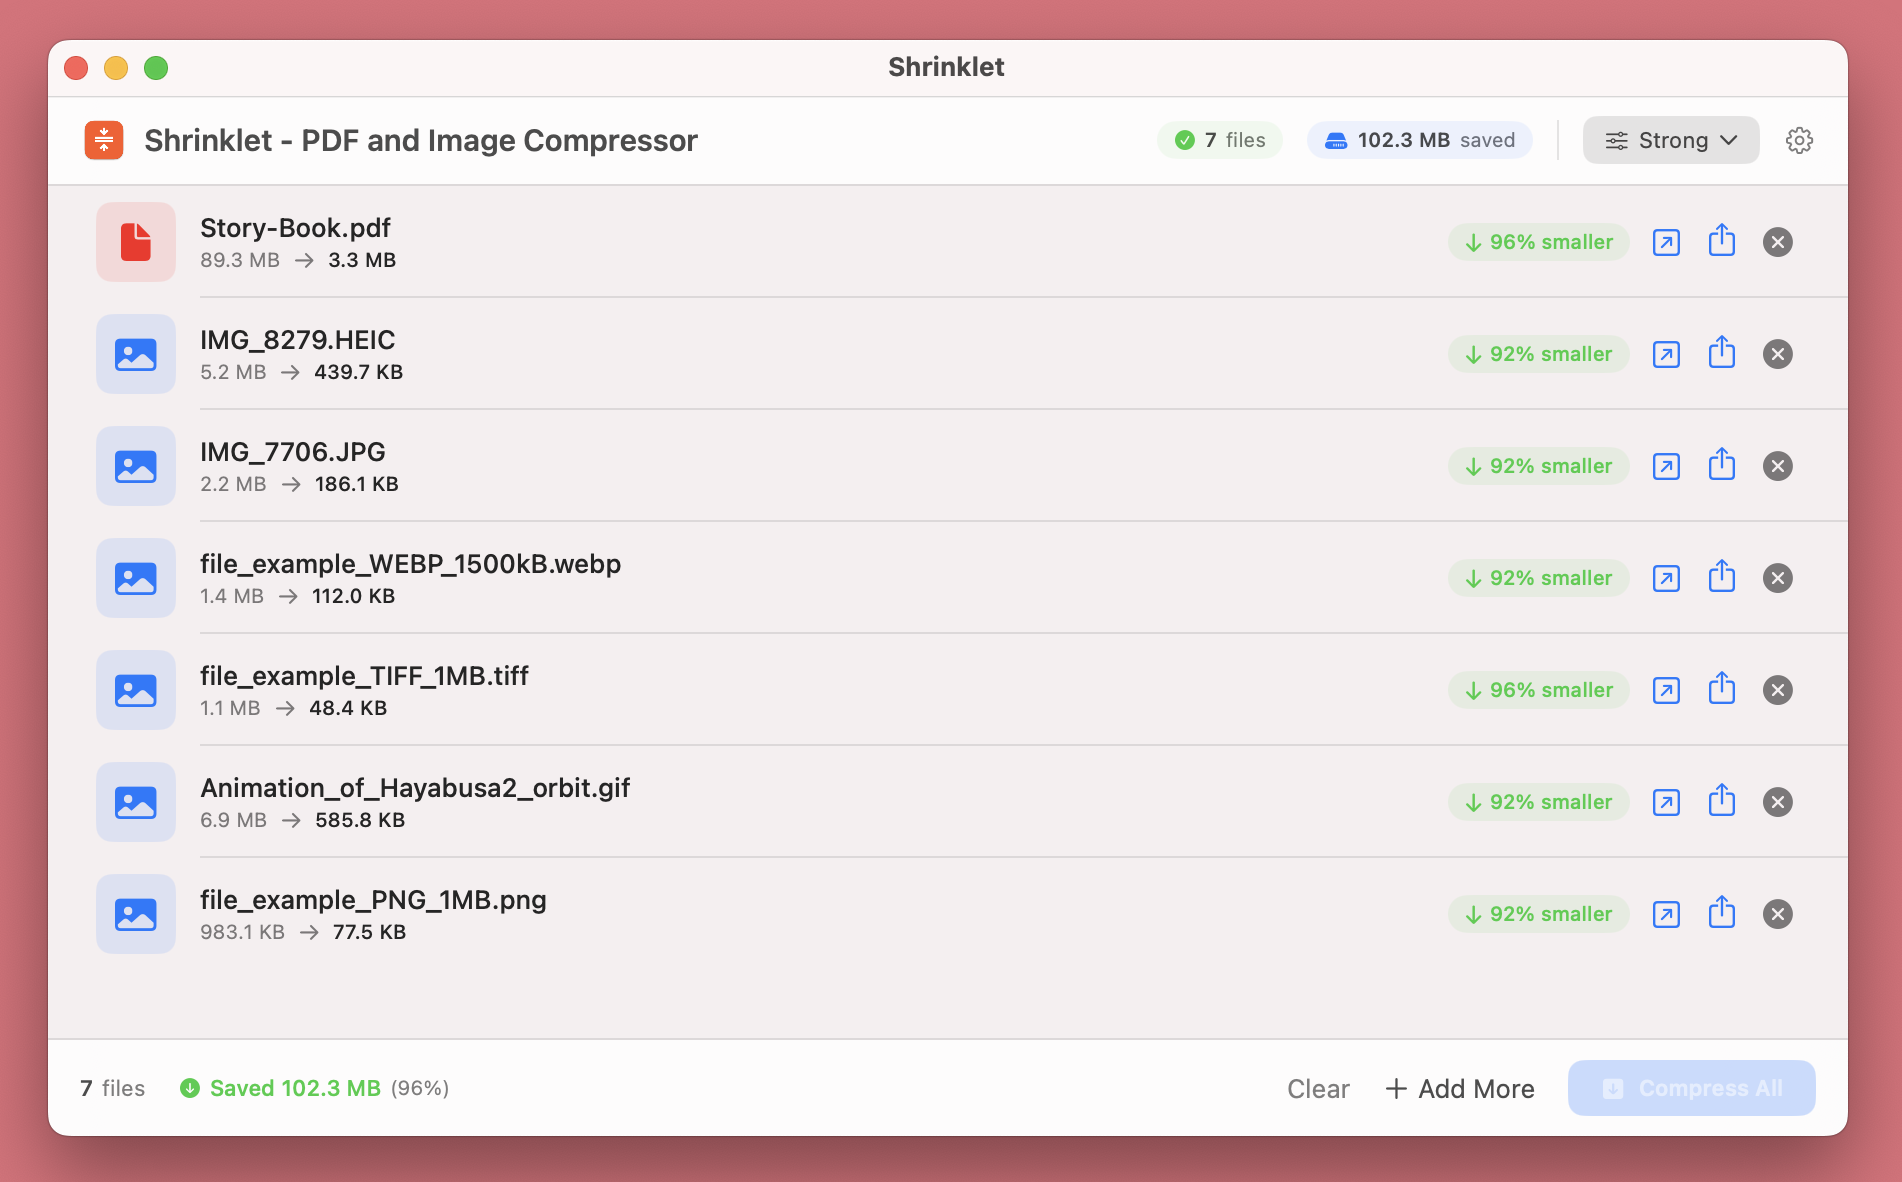
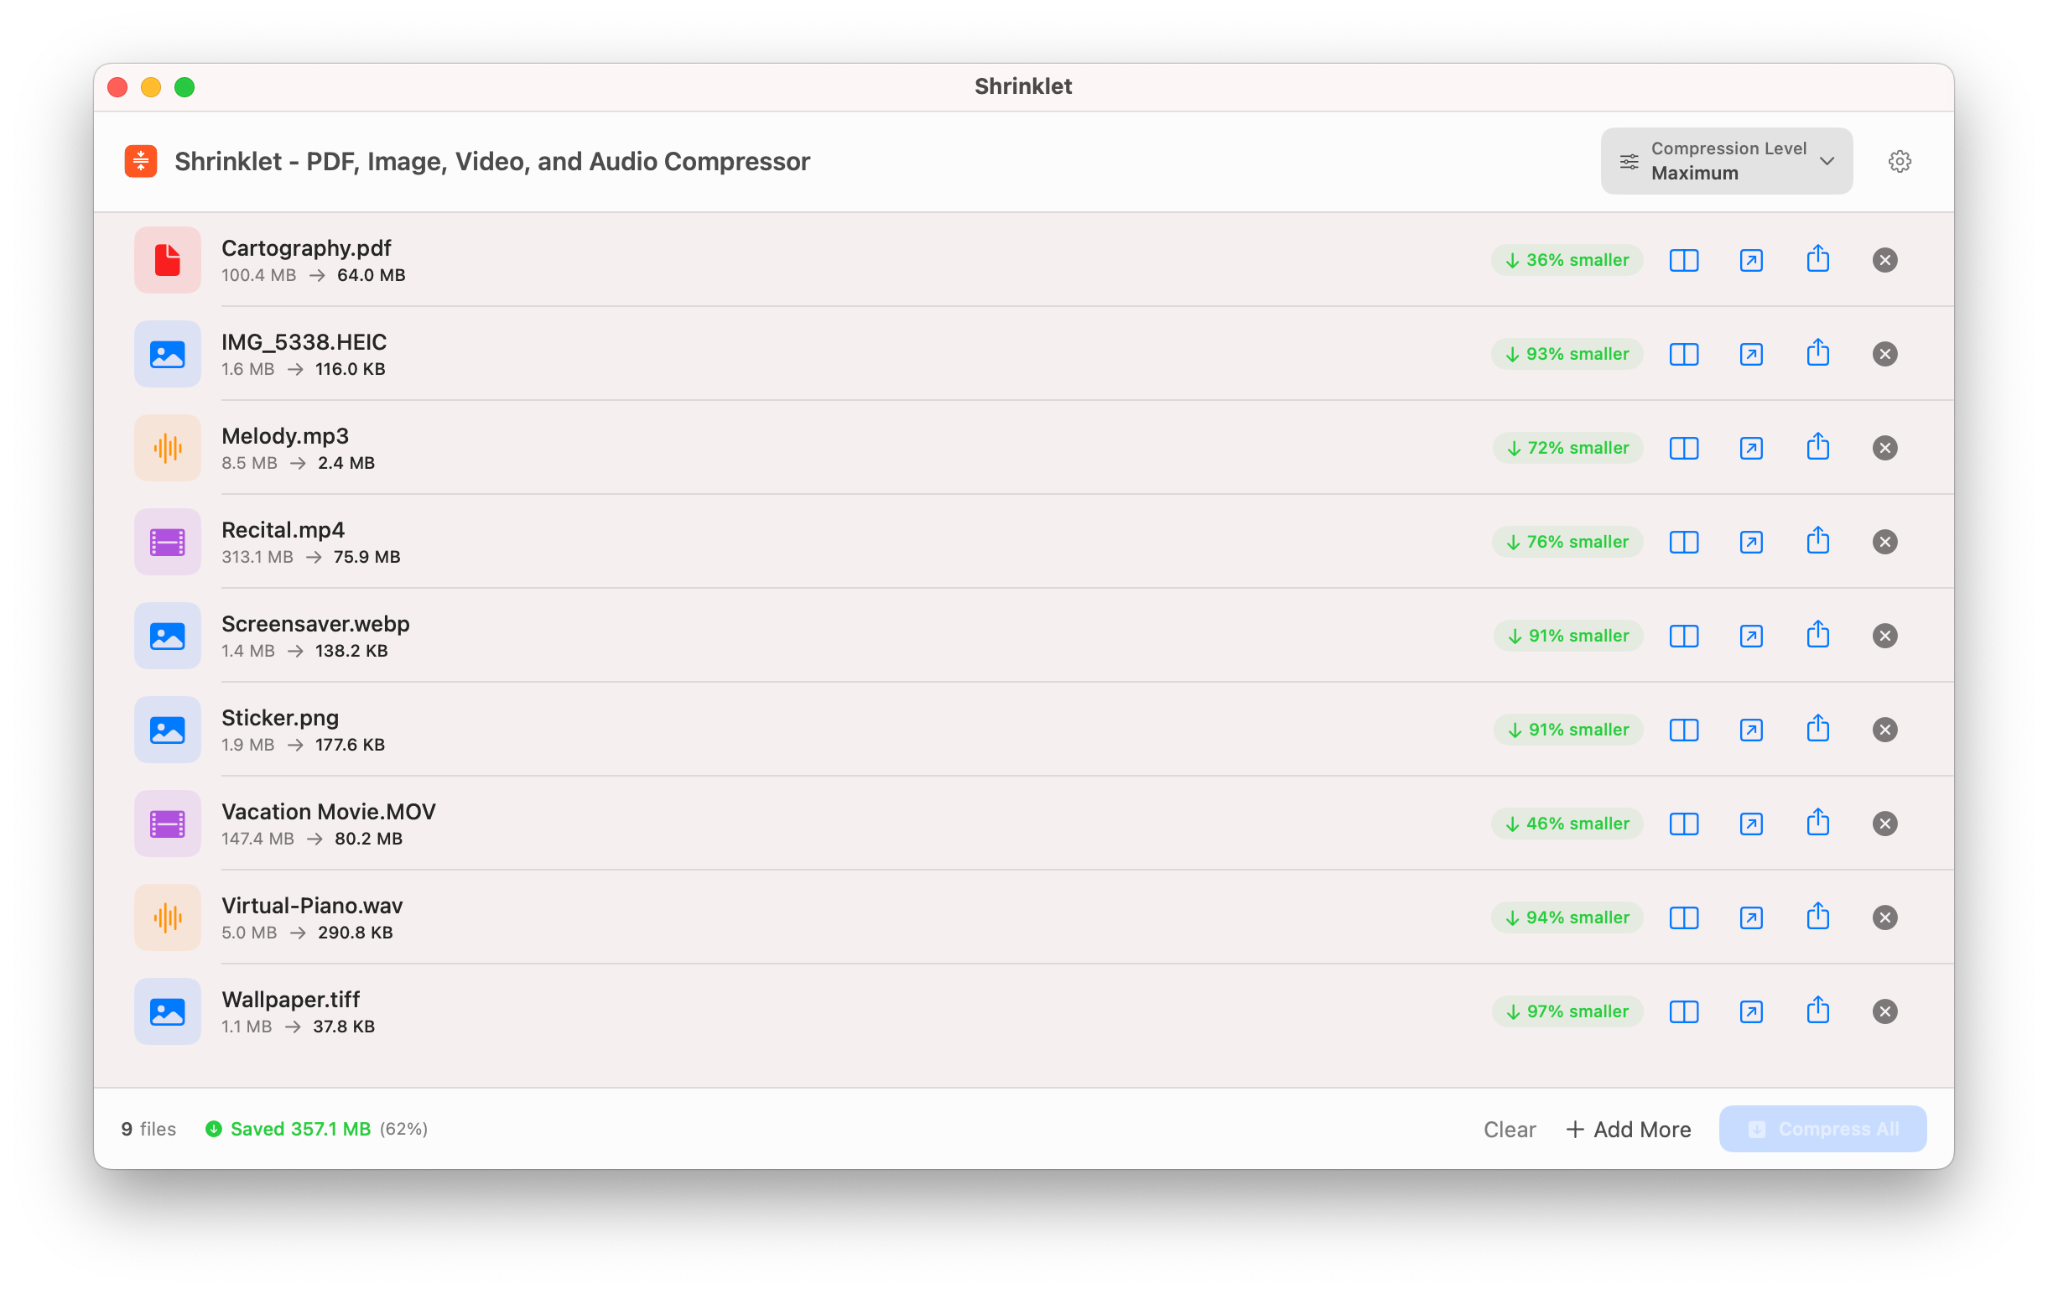
Add files via upload

Changed region(s): [[0.0, 0.0, 1.0, 1.0], [0.6204, 0.0914, 0.6514, 0.1218]]

diff --git a/support.html b/support.html
@@ -5,7 +5,7 @@
 <meta charset="utf-8"/>
 <meta content="width=device-width, initial-scale=1" name="viewport"/>
 <title>Support | Shrinklet by Jungle Pixels</title>
-<meta content="Support guide for Shrinklet, the private Mac app for compressing PDFs and images locally." name="description"/>
+<meta content="Support guide for Shrinklet, the private Mac app for compressing PDFs, images, videos, and audio locally." name="description"/>
 <link href="css/pages/support.css" rel="stylesheet"/>
 </head>
 <body>
@@ -32,11 +32,13 @@
 <div class="container hero-grid">
 <div>
 <div class="eyebrow">Shrinklet Support</div>
-<h1>Everything you need to compress PDFs and images with confidence.</h1>
+<h1>Everything you need to compress PDFs, images, videos, and audio with confidence.</h1>
 <p class="lead">This guide walks through the full Shrinklet workflow: adding files, choosing presets, tracking progress, reviewing savings, sharing results, and using advanced settings when you want more control.</p>
 <div aria-label="Support highlights" class="pill-row">
 <span class="pill">PDF compression</span>
 <span class="pill">Image compression</span>
+<span class="pill">Video compression</span>
+<span class="pill">Audio compression</span>
 <span class="pill">Batch files</span>
 <span class="pill">Local processing</span>
 <span class="pill">macOS 13.0+</span>
@@ -57,7 +59,7 @@
 </div>
 <div class="hero-card">
 <img alt="Shrinklet clean drop zone screen" loading="eager" src="assets/screenshots/01-drop-zone.png"/>
-<p class="note hero-note">Start with the clean drop zone, then drag in PDFs or images when you are ready.</p>
+<p class="note hero-note">Start with the clean drop zone, then drag in PDFs, images, videos, or audio when you are ready.</p>
 </div>
 </div>
 </section>
@@ -68,7 +70,7 @@
 <p>Use this path when you just want to make files smaller without thinking through every setting.</p>
 </div>
 <div class="cards">
-<article class="card"><div class="badge">1</div><h3>Add your files</h3><p>Drag PDFs or images into Shrinklet, or use the file picker. You can add one file or a mixed batch.</p></article>
+<article class="card"><div class="badge">1</div><h3>Add your files</h3><p>Drag PDFs, images, videos, or audio into Shrinklet, or use the file picker. You can add one file or a mixed batch.</p></article>
 <article class="card"><div class="badge">2</div><h3>Pick a preset</h3><p>Choose Light, Medium, Strong, or Maximum based on whether you care more about quality or file size.</p></article>
 <article class="card"><div class="badge">3</div><h3>Compress and save</h3><p>Click Compress, watch progress, then save or share the compressed output when Shrinklet finishes.</p></article>
 </div>
@@ -82,11 +84,11 @@
 </div>
 <div class="steps">
 <article class="step"><div class="step-num">01</div><div><h3>Start from the drop zone</h3><p>The home screen keeps the next action obvious. Drop files into the center area to begin.</p></div><img alt="Shrinklet drop zone" loading="lazy" src="assets/screenshots/01-drop-zone.png"/></article>
-<article class="step"><div class="step-num">02</div><div><h3>Review the file before compression</h3><p>For a single file, Shrinklet shows the pending item, its current size, and the selected compression option so you know what will happen before you run it.</p></div><img alt="Single pending file in Shrinklet" loading="lazy" src="assets/screenshots/02-single-pending.png"/></article>
-<article class="step"><div class="step-num">03</div><div><h3>Track progress</h3><p>During compression, the progress indicator and percentage make it clear that Shrinklet is actively working.</p></div><img alt="Compression progress in Shrinklet" loading="lazy" src="assets/screenshots/03-compressing-progress.png"/></article>
-<article class="step"><div class="step-num">04</div><div><h3>Review the result</h3><p>After compression, Shrinklet shows the new size and savings so you can decide whether the result is good enough or whether to try another preset.</p></div><img alt="Single completed compression result" loading="lazy" src="assets/screenshots/04-single-complete.png"/></article>
-<article class="step"><div class="step-num">05</div><div><h3>Compress batches</h3><p>You can queue multiple PDFs and images together. Batch mode helps when you need to prepare several files for email, upload, storage, or sharing.</p></div><img alt="Pending batch in Shrinklet" loading="lazy" src="assets/screenshots/05-batch-pending.png"/></article>
-<article class="step"><div class="step-num">06</div><div><h3>Compare savings per file</h3><p>Completed batches show each file’s output and savings, making it easier to spot which files compressed well and which may need different settings.</p></div><img alt="Completed batch result in Shrinklet" loading="lazy" src="assets/screenshots/06-batch-complete.png"/></article>
+<article class="step"><div class="step-num">02</div><div><h3>Review the file before compression</h3><p>For a single file, Shrinklet shows the pending item, its current size, and the selected compression option so you know what will happen before you run it.</p></div><img alt="Single pending file in Shrinklet" loading="lazy" src="assets/screenshots/02-batch-pending.png"/></article>
+<article class="step"><div class="step-num">03</div><div><h3>Track progress</h3><p>During compression, the progress indicator and percentage make it clear that Shrinklet is actively working.</p></div><img alt="Compression progress in Shrinklet" loading="lazy" src="assets/screenshots/06-compressing-progress.png"/></article>
+<article class="step"><div class="step-num">04</div><div><h3>Review the result</h3><p>After compression, Shrinklet shows the new size and savings so you can decide whether the result is good enough or whether to try another preset.</p></div><img alt="Single completed compression result" loading="lazy" src="assets/screenshots/07-batch-complete.png"/></article>
+<article class="step"><div class="step-num">05</div><div><h3>Compress mixed-media batches</h3><p>You can queue multiple PDFs, images, videos, and audio files together. Batch mode helps when you need to prepare several files for email, upload, storage, or sharing.</p></div><img alt="Pending batch in Shrinklet" loading="lazy" src="assets/screenshots/02-batch-pending.png"/></article>
+<article class="step"><div class="step-num">06</div><div><h3>Compare savings per file</h3><p>Completed batches show each file’s output and savings, making it easier to spot which files compressed well and which may need different settings.</p></div><img alt="Completed batch result in Shrinklet" loading="lazy" src="assets/screenshots/07-batch-complete.png"/></article>
 </div>
 </div>
 </section>
@@ -95,7 +97,7 @@
 <div class="section-head"><h2>Choosing a compression preset</h2><p>Start with Medium for everyday use. Move up or down depending on how the file looks and how small it needs to be.</p></div>
 <div class="cards">
 <article class="card"><h3>Light</h3><p>Best when visual quality matters most and you only need a modest size reduction.</p></article>
-<article class="card"><h3>Medium</h3><p>The best default for most documents and images. It aims for a balanced result.</p></article>
+<article class="card"><h3>Medium</h3><p>The best default for most documents, images, videos, and audio. It aims for a balanced result.</p></article>
 <article class="card"><h3>Strong</h3><p>Use when file size matters more, such as uploads with strict limits or files you need to email.</p></article>
 <article class="card"><h3>Maximum</h3><p>Use when you need the smallest practical file and can accept more quality tradeoff.</p></article>
 <article class="card"><h3>Custom</h3><p>Use advanced settings when you want direct control over quality, image resolution, and output behavior.</p></article>
@@ -103,14 +105,37 @@
 </div>
 </div>
 </section>
+
+<section class="section" id="review-results">
+<div class="container">
+<div class="section-head"><h2>Review results before sharing</h2><p>Shrinklet now includes a Review Result flow for documents, images, and audio so users can verify quality before replacing or sending a compressed file.</p></div>
+<div class="shot-grid">
+<article class="shot-card"><img alt="PDF review result" loading="lazy" src="assets/screenshots/08-pdf-review.png"/><div class="shot-body"><h3>PDF review</h3><p>Compare the original and compressed PDF side by side, zoom in, and read pages before sharing.</p></div></article>
+<article class="shot-card"><img alt="Image review result" loading="lazy" src="assets/screenshots/17-image-review.png"/><div class="shot-body"><h3>Image review</h3><p>Zoom in on the original and compressed image to check detail, edges, and small text.</p></div></article>
+<article class="shot-card"><img alt="Audio review result" loading="lazy" src="assets/screenshots/18-audio-review.png"/><div class="shot-body"><h3>Audio review</h3><p>Listen to the original and compressed audio output using native playback controls.</p></div></article>
+<article class="shot-card"><img alt="Share compressed file" loading="lazy" src="assets/screenshots/19-share-menu.png"/><div class="shot-body"><h3>Share output</h3><p>Use the native share sheet to send compressed files through AirDrop, Mail, Messages, Notes, and more.</p></div></article>
+</div>
+</div>
+</section>
+<section class="section alt" id="media-settings">
+<div class="container">
+<div class="section-head"><h2>Media-specific settings</h2><p>Most users can stay with a preset. When more control is needed, Shrinklet separates settings for output, PDF, video, audio, statistics, help, and about.</p></div>
+<div class="shot-grid">
+<article class="shot-card"><img alt="Output settings" loading="lazy" src="assets/screenshots/10-output-settings.png"/><div class="shot-body"><h3>Output and naming</h3><p>Choose the save location, overwrite behavior, and filename suffix.</p></div></article>
+<article class="shot-card"><img alt="PDF settings" loading="lazy" src="assets/screenshots/11-pdf-settings.png"/><div class="shot-body"><h3>PDF cleanup</h3><p>Remove metadata, annotations, page thumbnails, and hidden layers when appropriate.</p></div></article>
+<article class="shot-card"><img alt="Video settings" loading="lazy" src="assets/screenshots/12-video-settings.png"/><div class="shot-body"><h3>Video output</h3><p>Set max resolution, frame rate, and video metadata removal.</p></div></article>
+<article class="shot-card"><img alt="Audio settings" loading="lazy" src="assets/screenshots/13-audio-settings.png"/><div class="shot-body"><h3>Audio output</h3><p>Adjust bitrate, sample rate, channels, and audio metadata removal.</p></div></article>
+</div>
+</div>
+</section>
 <section class="section" id="screens">
 <div class="container">
 <div class="section-head"><h2>What each screen is for</h2><p>Use this section as a visual map of Shrinklet.</p></div>
 <div class="shot-grid">
-<article class="shot-card"><img alt="Single file pending screen" loading="lazy" src="assets/screenshots/02-single-pending.png"/><div class="shot-body"><h3>Single file review</h3><p>Confirm the selected file and compression preset before starting.</p></div></article>
-<article class="shot-card"><img alt="Progress screen" loading="lazy" src="assets/screenshots/03-compressing-progress.png"/><div class="shot-body"><h3>Progress view</h3><p>Watch the active compression step, progress bar, and percentage.</p></div></article>
-<article class="shot-card"><img alt="Share menu" loading="lazy" src="assets/screenshots/07-share-menu.png"/><div class="shot-body"><h3>Share menu</h3><p>Use the share action to send or move compressed files quickly after completion.</p></div></article>
-<article class="shot-card" id="settings"><img alt="Advanced settings" loading="lazy" src="assets/screenshots/08-settings.png"/><div class="shot-body"><h3>Advanced settings</h3><p>Fine tune quality and compression behavior when presets are not enough.</p></div></article>
+<article class="shot-card"><img alt="Single file pending screen" loading="lazy" src="assets/screenshots/02-batch-pending.png"/><div class="shot-body"><h3>Single file review</h3><p>Confirm the selected file and compression preset before starting.</p></div></article>
+<article class="shot-card"><img alt="Progress screen" loading="lazy" src="assets/screenshots/06-compressing-progress.png"/><div class="shot-body"><h3>Progress view</h3><p>Watch the active compression step, progress bar, and percentage.</p></div></article>
+<article class="shot-card"><img alt="Share menu" loading="lazy" src="assets/screenshots/19-share-menu.png"/><div class="shot-body"><h3>Share menu</h3><p>Use the share action to send or move compressed files quickly after completion.</p></div></article>
+<article class="shot-card" id="settings"><img alt="Advanced settings" loading="lazy" src="assets/screenshots/09-compression-settings.png"/><div class="shot-body"><h3>Advanced settings</h3><p>Fine tune quality and compression behavior when presets are not enough.</p></div></article>
 </div>
 </div>
 </section>
@@ -118,9 +143,9 @@
 <div class="container">
 <div class="section-head"><h2>Troubleshooting</h2><p>Most issues can be resolved by changing the preset, checking the original file, or trying a smaller batch.</p></div>
 <div class="faq">
-<article class="card"><h3>The file did not get much smaller</h3><p>Some PDFs and images are already optimized. Try Strong, Maximum, or Custom settings. Scanned PDFs and image-heavy documents usually shrink more than text-only PDFs.</p></article>
+<article class="card"><h3>The file did not get much smaller</h3><p>Some PDFs, images, videos, and audio files are already optimized. Try Strong, Maximum, or Custom settings. Scanned PDFs, image-heavy documents, high-resolution images, long videos, and large audio files usually show the biggest savings.</p></article>
 <article class="card"><h3>The output looks too soft</h3><p>Use Light or Medium, or increase quality/resolution in Custom settings. Smaller files usually require some visual tradeoff.</p></article>
-<article class="card"><h3>Compression feels slow</h3><p>Large PDFs, high-resolution images, and big batches take longer. Try compressing fewer files at once or closing other heavy apps.</p></article>
+<article class="card"><h3>Compression feels slow</h3><p>Large PDFs, high-resolution images, long videos, large audio files, and big batches take longer. Try compressing fewer files at once or closing other heavy apps.</p></article>
 <article class="card"><h3>A file fails to compress</h3><p>Make sure the file opens normally in Preview or another Mac app. Damaged, password-protected, or unusual files may not compress correctly.</p></article>
 <article class="card"><h3>I cannot find the output</h3><p>Check the save location you selected after compression. Use the completed result screen and share menu to move or send the file again.</p></article>
 <article class="card"><h3>I need the smallest possible file</h3><p>Choose Maximum or Custom, then lower image quality and resolution. Review the output carefully before sending important documents.</p></article>
@@ -131,9 +156,9 @@
 <div class="container">
 <div class="callout">
 <h2>Privacy and offline use</h2>
-<p>Shrinklet is designed for local Mac workflows. Your PDFs and images are compressed on your Mac, which helps you avoid uploading private documents to random web tools. App Store purchases, downloads, and refunds are handled by Apple.</p>
+<p>Shrinklet is designed for local Mac workflows. Your PDFs, images, videos, and audio files are compressed on your Mac, which helps you avoid uploading private documents to random web tools. App Store purchases, downloads, and refunds are handled by Apple.</p>
 <ul class="support-list">
-<li>Use Shrinklet for PDFs and common image files.</li>
+<li>Use Shrinklet for PDFs, common image files, videos, and audio files.</li>
 <li>Keep an original copy of important files before replacing or sharing compressed versions.</li>
 <li>Review compressed output before submitting legal, financial, school, or business documents.</li>
 </ul>
@@ -144,7 +169,7 @@
 <div class="container">
 <div class="section-head"><h2>Need more help?</h2><p>For any issues, email <a href="mailto:[email redacted]">[email redacted]</a>. Include the details below so the issue can be understood quickly.</p></div>
 <div class="cards">
-<article class="card"><h3>Describe the file</h3><p>Mention whether it is a PDF or image, the original size, and whether it contains scans, photos, text, or screenshots.</p></article>
+<article class="card"><h3>Describe the file</h3><p>Mention whether it is a PDF, image, video, or audio file, the original size, and what kind of content it contains.</p></article>
 <article class="card"><h3>Share your settings</h3><p>Include the preset you used and any custom quality or resolution settings you changed.</p></article>
 <article class="card"><h3>Explain the result</h3><p>Include the compressed size, whether quality was acceptable, and what you expected to happen.</p></article>
 </div>

diff --git a/privacy.html b/privacy.html
@@ -31,7 +31,7 @@
 <section class="privacy-hero">
 <div class="container">
 <h1>Privacy Policy</h1>
-<p>Shrinklet keeps compression simple and private by processing PDFs and images locally on your Mac.</p>
+<p>Shrinklet keeps compression simple and private by processing PDFs, images, videos, and audio files locally on your Mac.</p>
 </div>
 </section>
 <div class="page">
@@ -79,7 +79,7 @@
 </section>
 <section>
 <h2>4. File Processing — All Local</h2>
-<p>All file processing occurs entirely and exclusively on your Mac. Files you add to Shrinklet — including PDFs and images — are never uploaded to any server, transmitted to any third party, or retained by the developer in any form.</p>
+<p>All file processing occurs entirely and exclusively on your Mac. Files you add to Shrinklet — including PDFs, images, videos, and audio files — are never uploaded to any server, transmitted to any third party, or retained by the developer in any form.</p>
 <p>Compressed output files are written to the location you designate on your device. The developer has no access to your files at any point before, during, or after compression.</p>
 <div class="disclaimer-box">
 <strong>⚠️ File Safety — Your Responsibility</strong>
@@ -97,13 +97,15 @@
 <li>HEIC images</li>
 <li>GIF images</li>
 <li>WebP images</li>
+<li>Common video files that macOS can read, including MP4, M4V, MOV, and many AVI files</li>
+<li>Common audio files that macOS can read, including MP3, M4A, AAC, WAV, AIFF, CAF, and similar formats</li>
 </ul>
-<p>These files remain on your device at all times. They are not uploaded, transmitted, or shared with Jungle Pixels, Venkata Palakodety, or any third party.</p>
+<p>Supported formats may vary based on what your version of macOS can decode. These files remain on your device at all times. They are not uploaded, transmitted, or shared with Jungle Pixels, Venkata Palakodety, or any third party.</p>
 </section>
 <section>
 <h2>6. Internet Access</h2>
 <p>Shrinklet does not require an internet connection to compress files and does not initiate any network requests during normal operation.</p>
-<p>The app does not transmit your documents, image files, filenames, file sizes, compression results, or any metadata to any external server.</p>
+<p>The app does not transmit your documents, images, videos, audio files, filenames, file sizes, compression results, or any metadata to any external server.</p>
 </section>
 <section>
 <h2>7. Analytics and Tracking</h2>

diff --git a/about.html b/about.html
@@ -52,7 +52,7 @@
             The idea behind Jungle Pixels started with simple, honest conversations with friends, family, and fellow builders about the tiny workflow problems that slow people down. Compressing a PDF for an email, shrinking images before sharing, or preparing files for upload should not require confusing tools or random websites.
           </p>
 <p>
-            Shrinklet is the first expression of that mindset: a focused Mac app that does one thing clearly. It helps people make PDFs and images smaller, understand the result, and move on with their day.
+            Shrinklet is the first expression of that mindset: a focused Mac app that does one thing clearly. It helps people make PDFs, images, videos, and audio files smaller, understand the result, and move on with their day.
           </p>
 </article>
 <article class="card">
@@ -78,13 +78,13 @@
 <article class="card wide">
 <h3>About Shrinklet</h3>
 <p>
-            Shrinklet was created for people who need a fast, understandable way to compress PDF documents and image files on Mac. The flow is intentionally simple: add files, choose a preset, compress, and see how much space you saved.
+            Shrinklet was created for people who need a fast, understandable way to compress PDF documents, image files, videos, and audio files on Mac. The flow is intentionally simple: add files, choose a preset, compress, review the result, and see how much space you saved.
           </p>
 </article>
 <div class="cta wide">
 <div>
 <h2>Try Shrinklet</h2>
-<p>Make PDFs and images smaller with a Mac app designed to be simple, private, and productive.</p>
+<p>Make PDFs, images, videos, and audio files smaller with a Mac app designed to be simple, private, and productive.</p>
 </div>
 <a class="button" href="index.html#download">Download Shrinklet</a>
 </div>

diff --git a/disclaimer.html b/disclaimer.html
@@ -99,7 +99,7 @@
 </section>
 <section>
 <h2>Third-Party Components</h2>
-<p>Shrinklet uses only native Apple frameworks (PDFKit, CoreImage, ImageIO, AppKit) for compression and file processing. Any issues related to these frameworks are governed by Apple's terms and Jungle Pixels assumes no liability for their operation or failure.</p>
+<p>Shrinklet uses only native Apple frameworks (PDFKit, CoreImage, ImageIO, AVFoundation, AppKit) for compression and file processing. Any issues related to these frameworks are governed by Apple's terms and Jungle Pixels assumes no liability for their operation or failure.</p>
 </section>
 <section>
 <h2>Platform and Compatibility Disclaimer</h2>